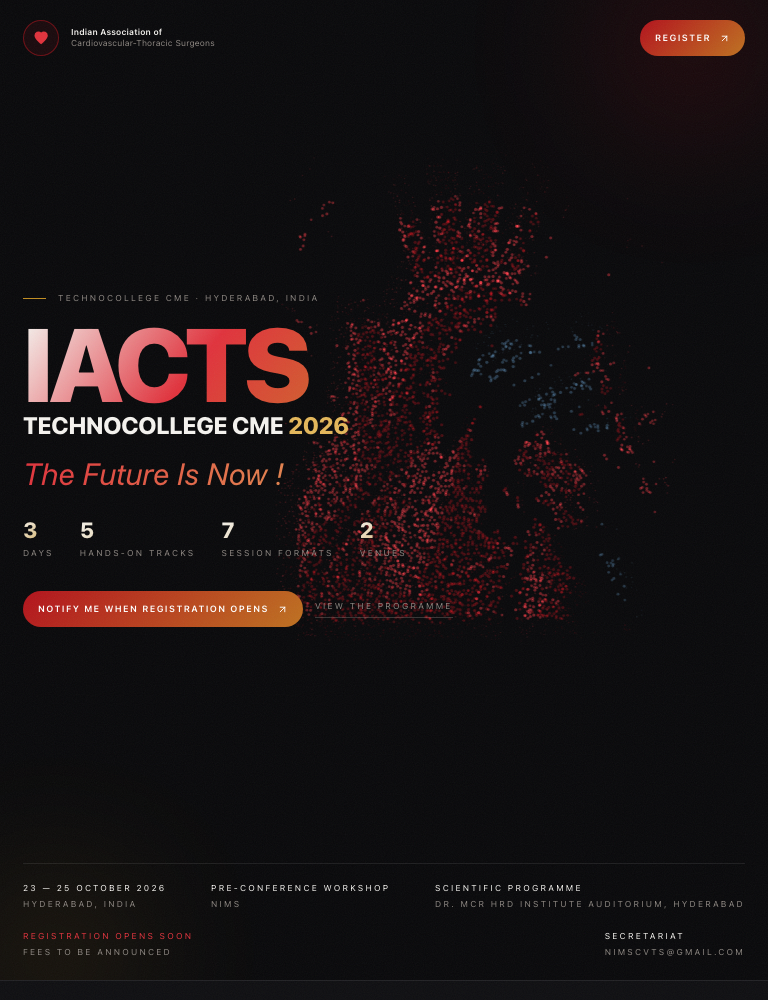
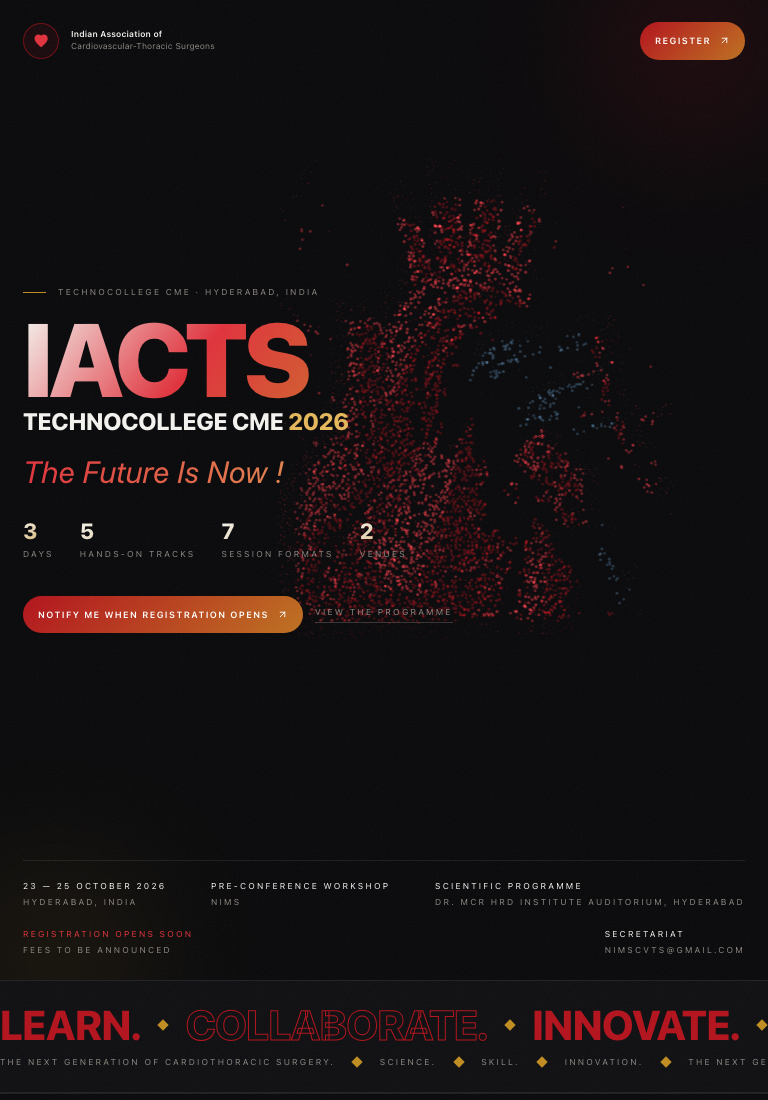
Phase 2 item 6: differentiate the three concepts below the fold
They are no longer one page with three heroes.
concept1 gets Capabilities variant=instrument - an instrument tray, each of the
six capabilities with a diagram drawn from primitives (crosshair, isocontour,
slice stack, reticle), no icon library.
concept2 gets Strata - the eight highlights as stacked bands with increasing
indent, echoing the fibre layers of the myocardial band hero, each carrying its
three real points rather than truncating to a card.
concept3 gets Capabilities variant=telemetry - mono channel rows read as a
monitor readout, matching its ECG mechanic.

diff --git a/web/src/components/sections/Capabilities.tsx b/web/src/components/sections/Capabilities.tsx
@@ -1,0 +1,98 @@
+import { capabilities } from "@/data/conference";
+
+/** Per-capability diagram drawn from primitives — crosshairs, registration
+    marks, a slice stack, an isocontour, a waveform, a reticle. No icon
+    library, no emoji, no images. */
+function Glyph({ i }: { i: number }) {
+  const s = "rgba(193,141,33,.55)";
+  const paths = [
+    "M8 32h48M32 8v48M32 32m-14 0a14 14 0 1 0 28 0a14 14 0 1 0-28 0", // reconstruction
+    "M10 46c8-26 36-26 44 0M10 46h44M22 34h20", // segmentation
+    "M32 6v52M6 32h52M32 32m-9 0a9 9 0 1 0 18 0a9 9 0 1 0-18 0M18 18l6 6M46 18l-6 6", // navigation
+    "M12 20h40M12 32h40M12 44h40M20 14v36M44 14v36", // planning
+    "M6 40c6 0 8-18 14-18s8 22 14 22 8-14 14-14 8 10 10 10", // imaging
+    "M32 32m-24 0a24 24 0 1 0 48 0a24 24 0 1 0-48 0M32 32m-11 0a11 11 0 1 0 22 0a11 11 0 1 0-22 0M32 4v10M32 50v10", // monitoring
+  ];
+  return (
+    <svg viewBox="0 0 64 64" className="w-[clamp(34px,3.4vw,54px)]" fill="none" aria-hidden="true">
+      <path d={paths[i % paths.length]} stroke={s} strokeWidth="1.1" strokeLinecap="round" />
+    </svg>
+  );
+}
+
+export default function Capabilities({
+  variant = "instrument",
+}: {
+  variant?: "instrument" | "telemetry";
+}) {
+  const telemetry = variant === "telemetry";
+
+  return (
+    <section
+      id="capabilities"
+      className={`border-t border-[var(--hair)] u-shell py-[clamp(4rem,10vh,9rem)] ${
+        telemetry ? "bg-ink-2" : ""
+      }`}
+    >
+      <header className="max-w-3xl">
+        <p className="u-eyebrow flex items-center gap-3" data-r>
+          <span className="text-gold">02</span>
+          {telemetry ? "Instrumentation" : "Next-Gen Technology"}
+        </p>
+        <h2
+          className="mt-5 text-[clamp(1.9rem,4.4vw,3.6rem)] font-extrabold leading-[1.02] tracking-[-0.025em]"
+          data-r
+        >
+          {telemetry ? (
+            <>Six channels, <span className="u-serif">read continuously</span></>
+          ) : (
+            <>Six capabilities, <span className="u-serif">one operating field</span></>
+          )}
+        </h2>
+      </header>
+
+      {telemetry ? (
+        /* CONCEPT 3 — a monitor readout: ruled channel rows, mono throughout */
+        <ul className="mt-[clamp(2rem,5vh,3.5rem)] list-none border-t border-[var(--hair)] p-0">
+          {capabilities.map((c) => (
+            <li
+              key={c.code}
+              data-r
+              className="group grid grid-cols-[auto_1fr_auto] items-center gap-[clamp(0.9rem,2.5vw,2.5rem)] border-b border-[var(--hair)] py-[clamp(0.8rem,2vh,1.3rem)]"
+            >
+              <span className="font-mono text-[0.66rem] tabular-nums text-gold">CH{c.code}</span>
+              <span className="font-mono text-[clamp(0.8rem,1.25vw,1.05rem)] uppercase tracking-[0.1em] transition-colors duration-500 group-hover:text-crimson-lift">
+                {c.title}
+              </span>
+              <span className="u-eyebrow text-faint">{c.scope}</span>
+            </li>
+          ))}
+        </ul>
+      ) : (
+        /* CONCEPT 1 — an instrument tray: each capability laid out with its diagram */
+        <div className="mt-[clamp(2rem,5vh,3.5rem)] grid gap-[clamp(1.25rem,2.5vw,2.5rem)] sm:grid-cols-2 lg:grid-cols-3">
+          {capabilities.map((c, i) => (
+            <article
+              key={c.code}
+              data-r
+              className="group relative border-t border-[var(--hair-gold)] pt-5"
+            >
+              <div className="flex items-start justify-between gap-4">
+                <span className="font-mono text-[0.66rem] tabular-nums text-gold">{c.code}</span>
+                <Glyph i={i} />
+              </div>
+              <h3 className="mt-4 text-[clamp(1rem,1.7vw,1.4rem)] font-bold leading-tight tracking-[-0.015em] transition-colors duration-500 group-hover:text-crimson-lift">
+                {c.title}
+              </h3>
+              <p className="mt-1.5 u-eyebrow">{c.scope}</p>
+              <span
+                aria-hidden
+                className="absolute left-0 top-0 h-px w-0 bg-crimson-lift transition-all duration-700 ease-[var(--ease-out-expo)] group-hover:w-full"
+              />
+            </article>
+          ))}
+        </div>
+      )}
+    </section>
+  );
+}

diff --git a/web/src/components/sections/Strata.tsx b/web/src/components/sections/Strata.tsx
@@ -1,0 +1,71 @@
+import { highlights } from "@/data/conference";
+
+/**
+ * CONCEPT 2's below-fold signature: the eight highlights as stacked strata,
+ * echoing the fibre layers of the myocardial band in the hero. Each band
+ * carries its three points, so real content density is handled rather than
+ * truncated to a card.
+ */
+export default function Strata() {
+  return (
+    <section id="highlights" className="border-t border-[var(--hair)] py-[clamp(4rem,10vh,9rem)]">
+      <div className="u-shell">
+        <header className="max-w-3xl">
+          <p className="u-eyebrow flex items-center gap-3" data-r>
+            <span className="text-gold">02</span> Scientific Highlights
+          </p>
+          <h2
+            className="mt-5 text-[clamp(1.9rem,4.4vw,3.6rem)] font-extrabold leading-[1.02] tracking-[-0.025em]"
+            data-r
+          >
+            Eight strata, <span className="u-serif">one continuous band</span>
+          </h2>
+        </header>
+      </div>
+
+      <div className="mt-[clamp(2rem,5vh,3.5rem)]">
+        {highlights.map((h, i) => {
+          const depth = i / (highlights.length - 1); // 0 outer → 1 inner
+          return (
+            <article
+              key={h.title}
+              data-r
+              className="group border-t border-[var(--hair)] transition-colors duration-500 hover:bg-white/[0.02]"
+              style={{
+                // each stratum sits slightly deeper, like fibre layers
+                paddingLeft: `calc(var(--gutter) + ${(depth * 5).toFixed(1)}vw)`,
+                paddingRight: "var(--gutter)",
+              }}
+            >
+              <div className="grid items-baseline gap-x-[clamp(1rem,2.5vw,2.5rem)] gap-y-2 py-[clamp(1.1rem,2.6vh,1.9rem)] lg:grid-cols-[auto_minmax(0,22%)_minmax(0,1fr)]">
+                <span className="font-mono text-[0.66rem] tabular-nums text-gold">
+                  {String(i + 1).padStart(2, "0")}
+                </span>
+
+                <h3 className="text-[clamp(1.05rem,1.9vw,1.55rem)] font-bold leading-tight tracking-[-0.015em] transition-colors duration-500 group-hover:text-crimson-lift">
+                  {h.title}
+                </h3>
+
+                <div>
+                  <p className="u-eyebrow">{h.sub}</p>
+                  <ul className="mt-2.5 grid list-none gap-1.5 p-0 sm:grid-cols-3">
+                    {h.points.map((p) => (
+                      <li key={p} className="text-[0.82rem] leading-snug text-muted">
+                        {p}
+                      </li>
+                    ))}
+                  </ul>
+                </div>
+              </div>
+
+              <span
+                aria-hidden
+                className="block h-px w-0 bg-gold/60 transition-all duration-700 ease-[var(--ease-out-expo)] group-hover:w-full"
+              />
+            </article>
+          );
+        })}
+      </div>
+    </section>
+  );
+}

diff --git a/web/src/app/concept2/page.tsx b/web/src/app/concept2/page.tsx
@@ -4,6 +4,7 @@ import { useState } from "react";
 import HelicalBand, { type BandMode } from "@/components/field/HelicalBand";
 import Ribbon from "@/components/site/Ribbon";
 import Programme from "@/components/sections/Programme";
+import Strata from "@/components/sections/Strata";
 import Committee from "@/components/sections/Committee";
 import Venues from "@/components/sections/Venues";
 import RegisterCta from "@/components/sections/RegisterCta";
@@ -88,6 +89,7 @@ export default function Concept2() {
       </section>
 
       <Ribbon />
+      <Strata />
       <Programme />
       <Committee />
       <Venues />

diff --git a/web/src/app/concept1/page.tsx b/web/src/app/concept1/page.tsx
@@ -1,6 +1,7 @@
 import CloudField from "@/components/field/CloudField";
 import Ribbon from "@/components/site/Ribbon";
 import Programme from "@/components/sections/Programme";
+import Capabilities from "@/components/sections/Capabilities";
 import Committee from "@/components/sections/Committee";
 import Venues from "@/components/sections/Venues";
 import RegisterCta from "@/components/sections/RegisterCta";
@@ -122,6 +123,7 @@ export default function Concept1() {
       </section>
 
       <Ribbon />
+      <Capabilities variant="instrument" />
       <Programme />
       <Committee />
       <Venues />

diff --git a/web/src/app/concept3/page.tsx b/web/src/app/concept3/page.tsx
@@ -1,6 +1,7 @@
 import EcgTrace from "@/components/field/EcgTrace";
 import Ribbon from "@/components/site/Ribbon";
 import Programme from "@/components/sections/Programme";
+import Capabilities from "@/components/sections/Capabilities";
 import Committee from "@/components/sections/Committee";
 import Venues from "@/components/sections/Venues";
 import RegisterCta from "@/components/sections/RegisterCta";
@@ -93,6 +94,7 @@ export default function Concept3() {
       </section>
 
       <Ribbon />
+      <Capabilities variant="telemetry" />
       <Programme />
       <Committee />
       <Venues />
